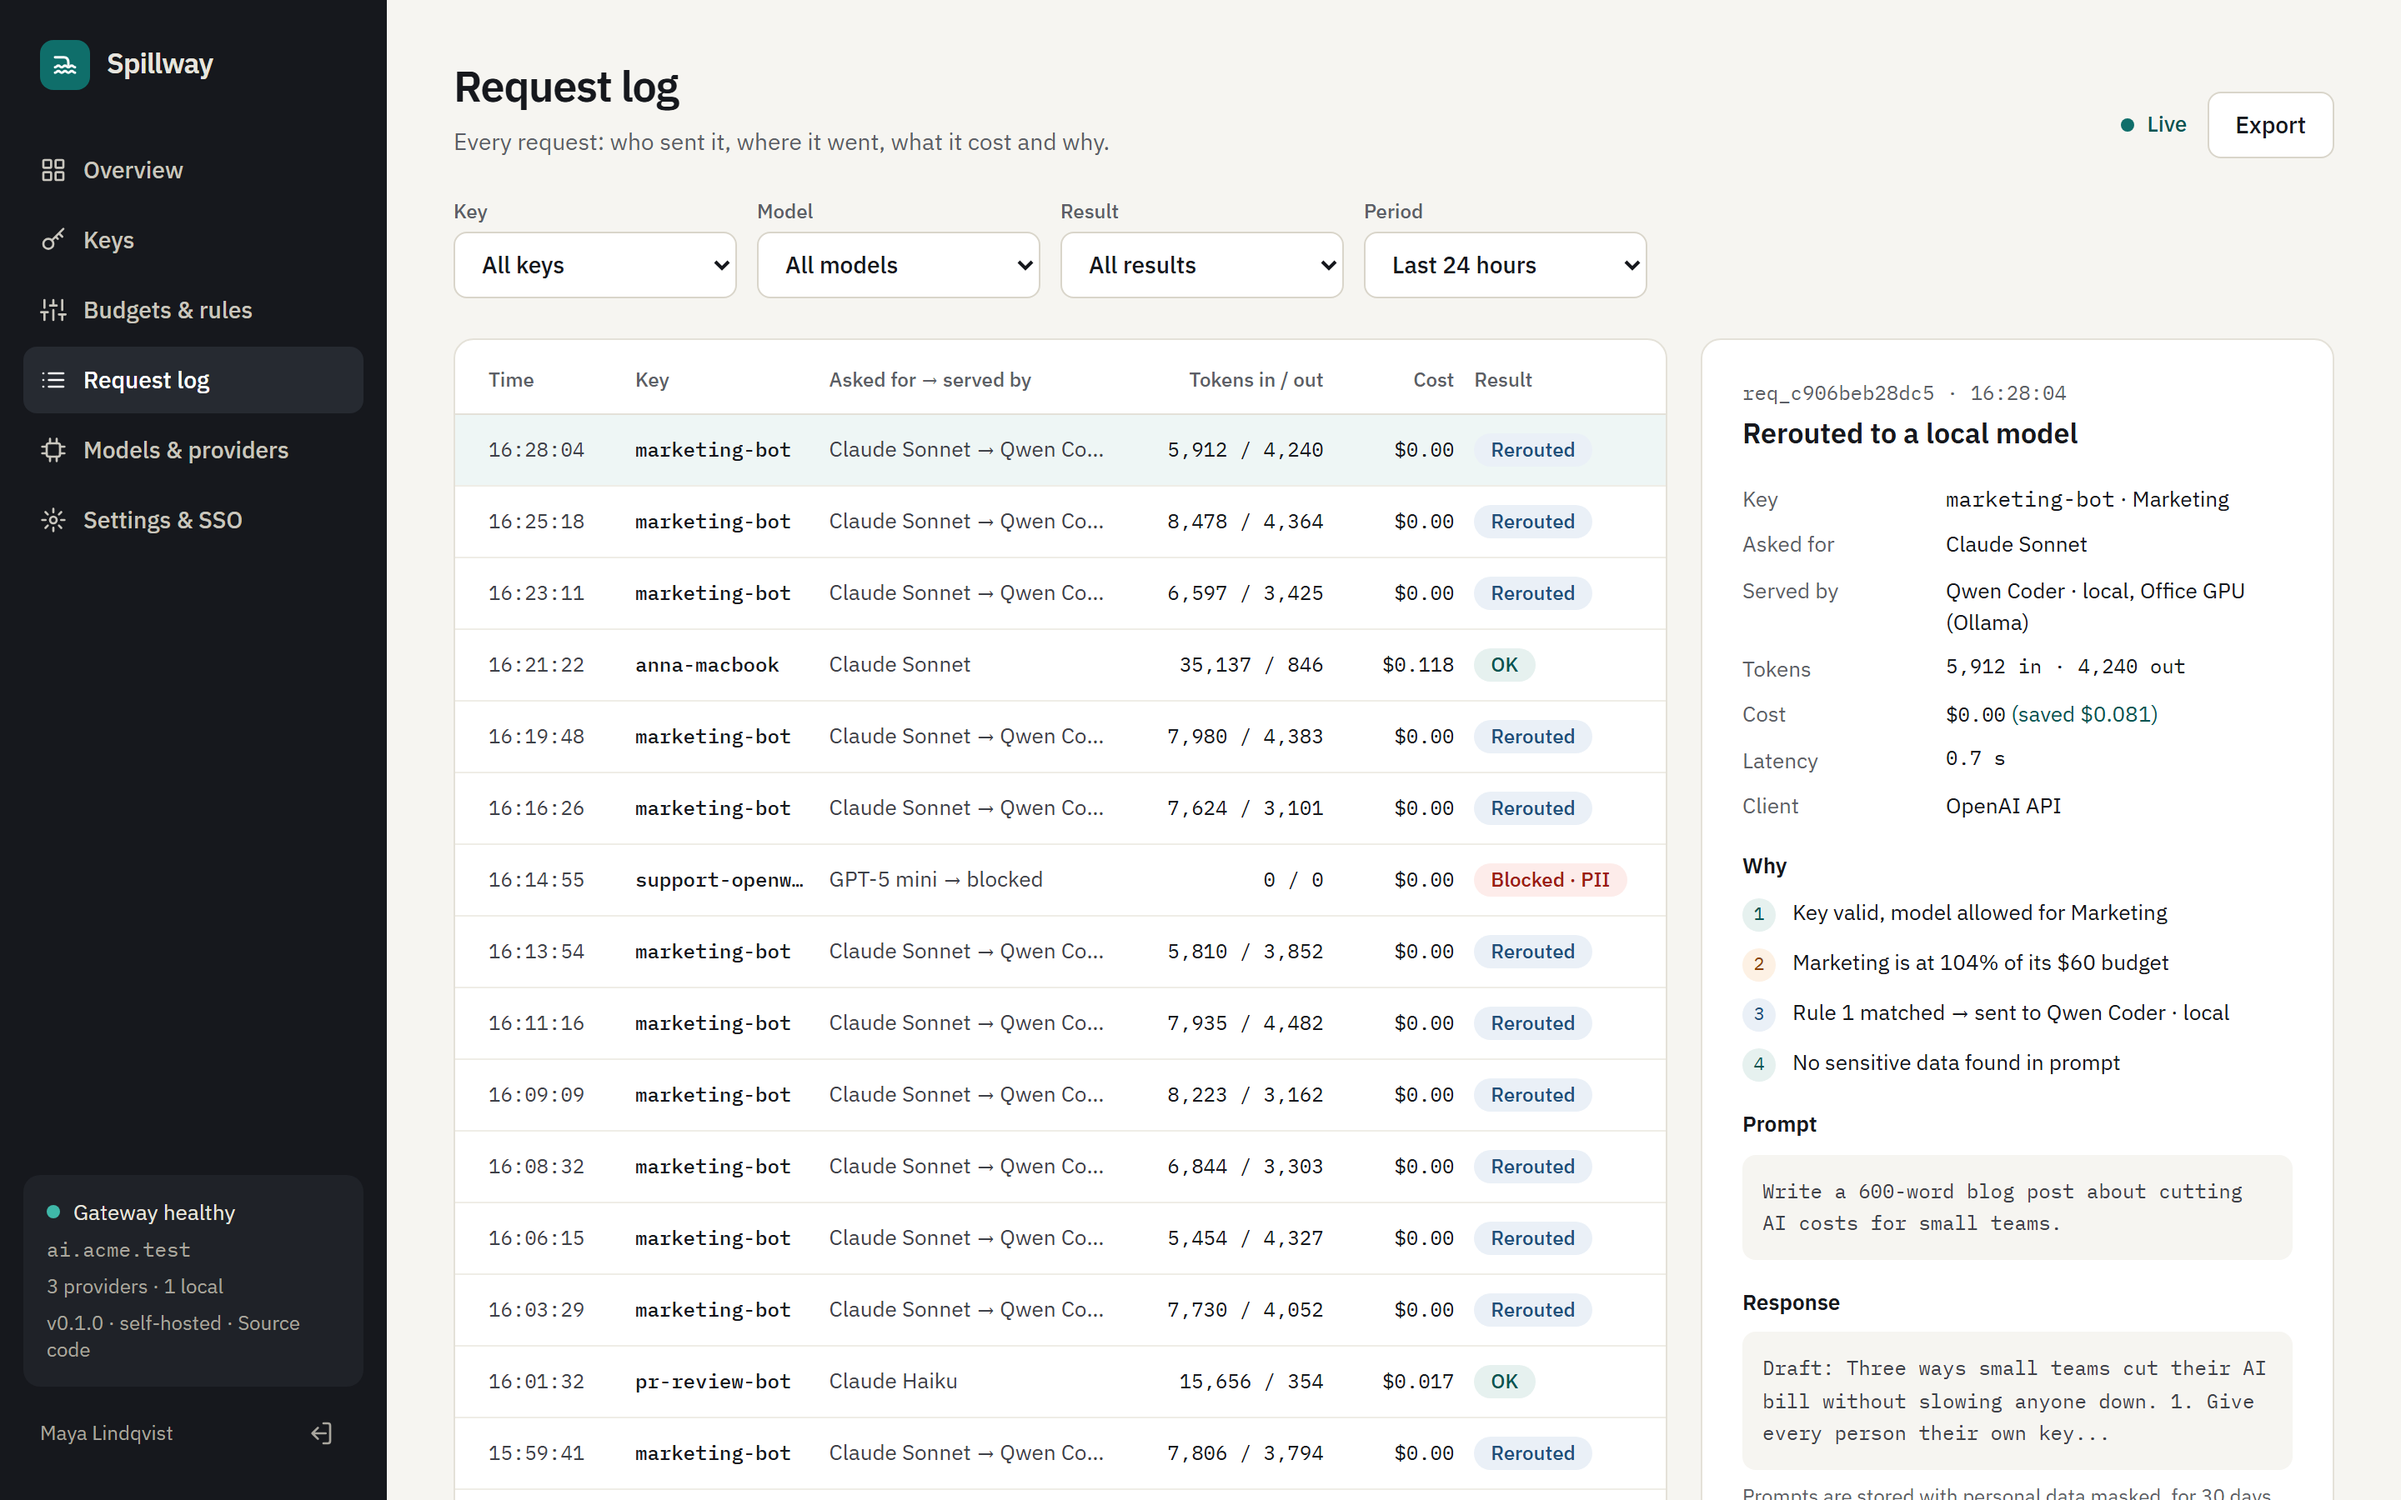
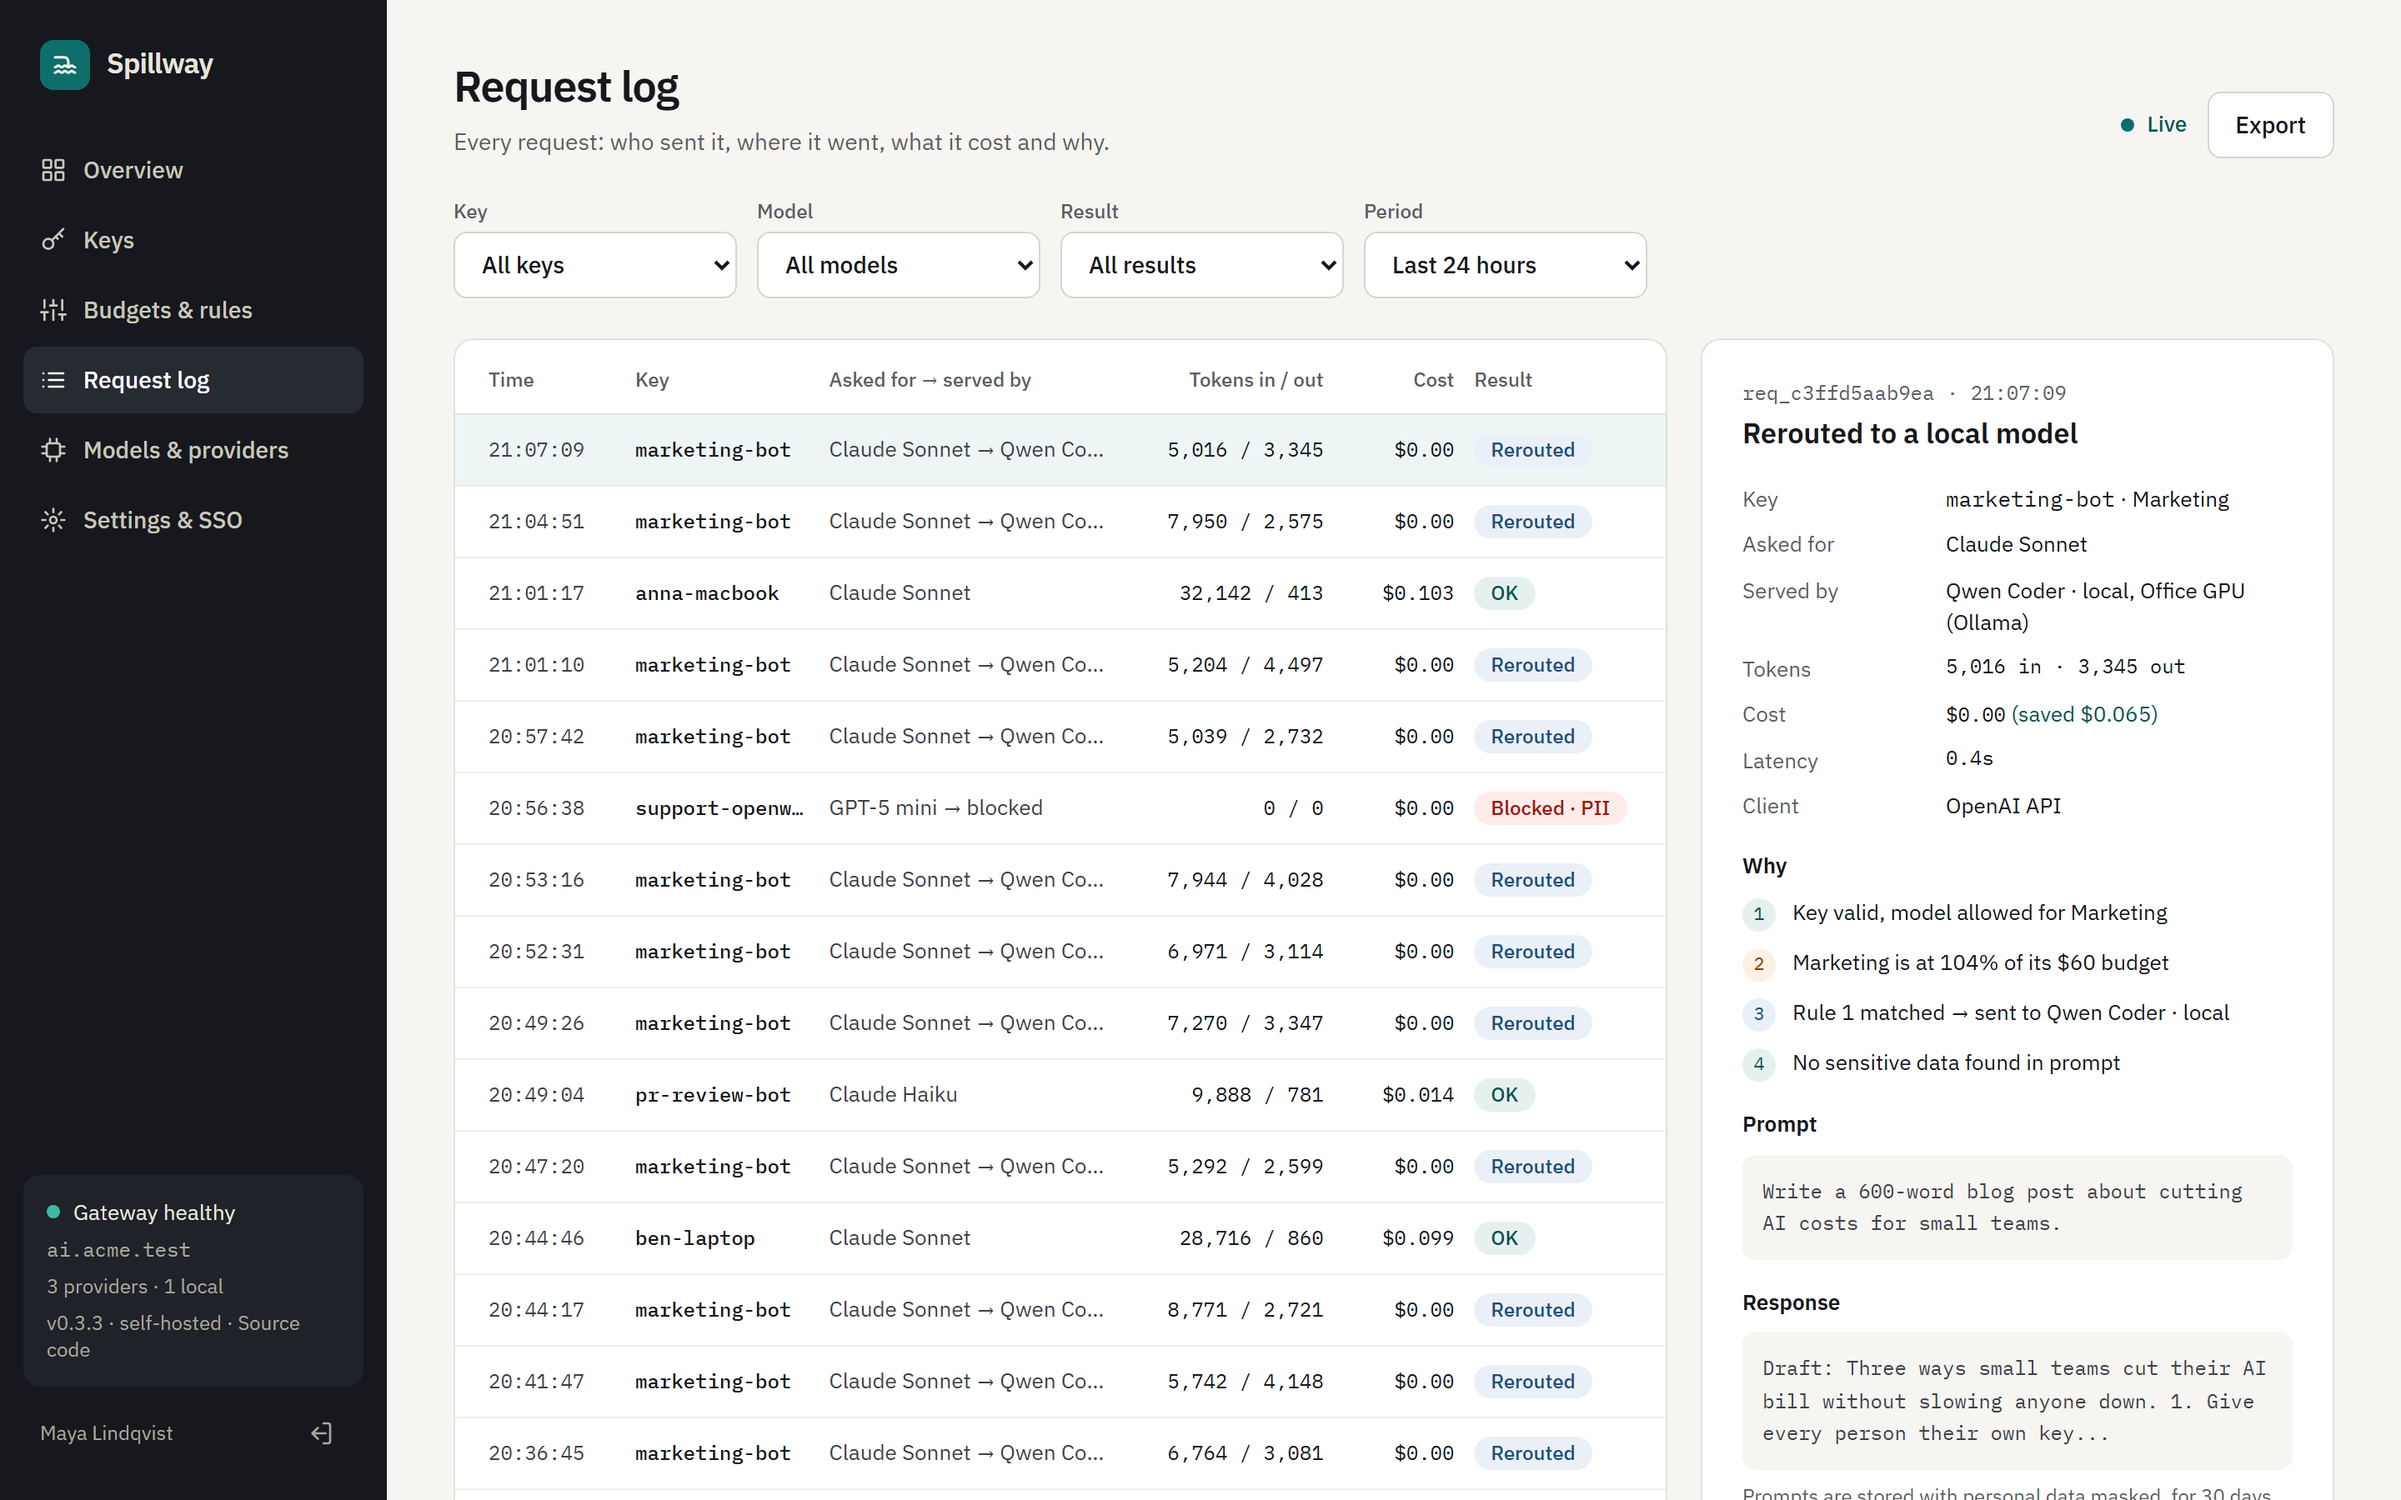
Show 0.3.3 in the README screenshots and GIF
The screenshots and the GIF were taken on 0.1.0 and showed it in the sidebar. Retaken on 0.3.3 with the same made-up company; the overview caption follows the new month-to-date numbers.

diff --git a/README.md b/README.md
@@ -184,7 +184,7 @@ the same Codex can run on Claude or on the local model.
 
 **Overview.** Spend against the budget, the share served by local models, and what needs attention.
 
-![Overview: $83.73 of an $860 budget spent this month, 13% of requests served by local models, Marketing over its budget](docs/overview.png)
+![Overview: $152.65 of an $860 budget spent this month, 17% of requests served by local models, Marketing over its budget](docs/overview.png)
 
 **Keys.** One key per person, device or agent, each with its own daily limit.
 
